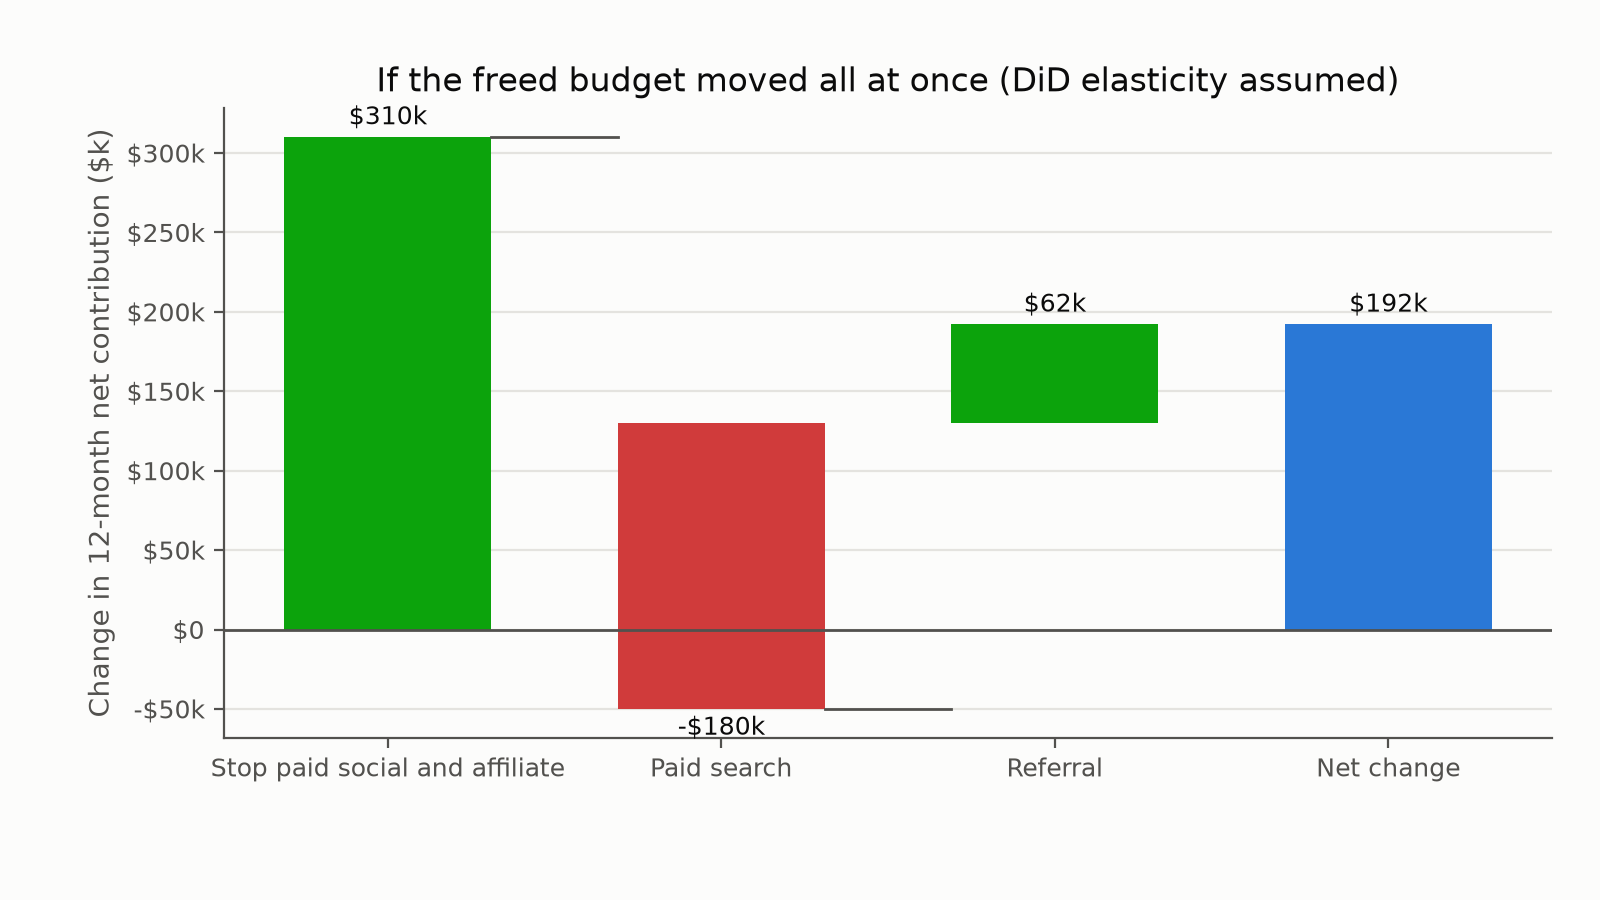
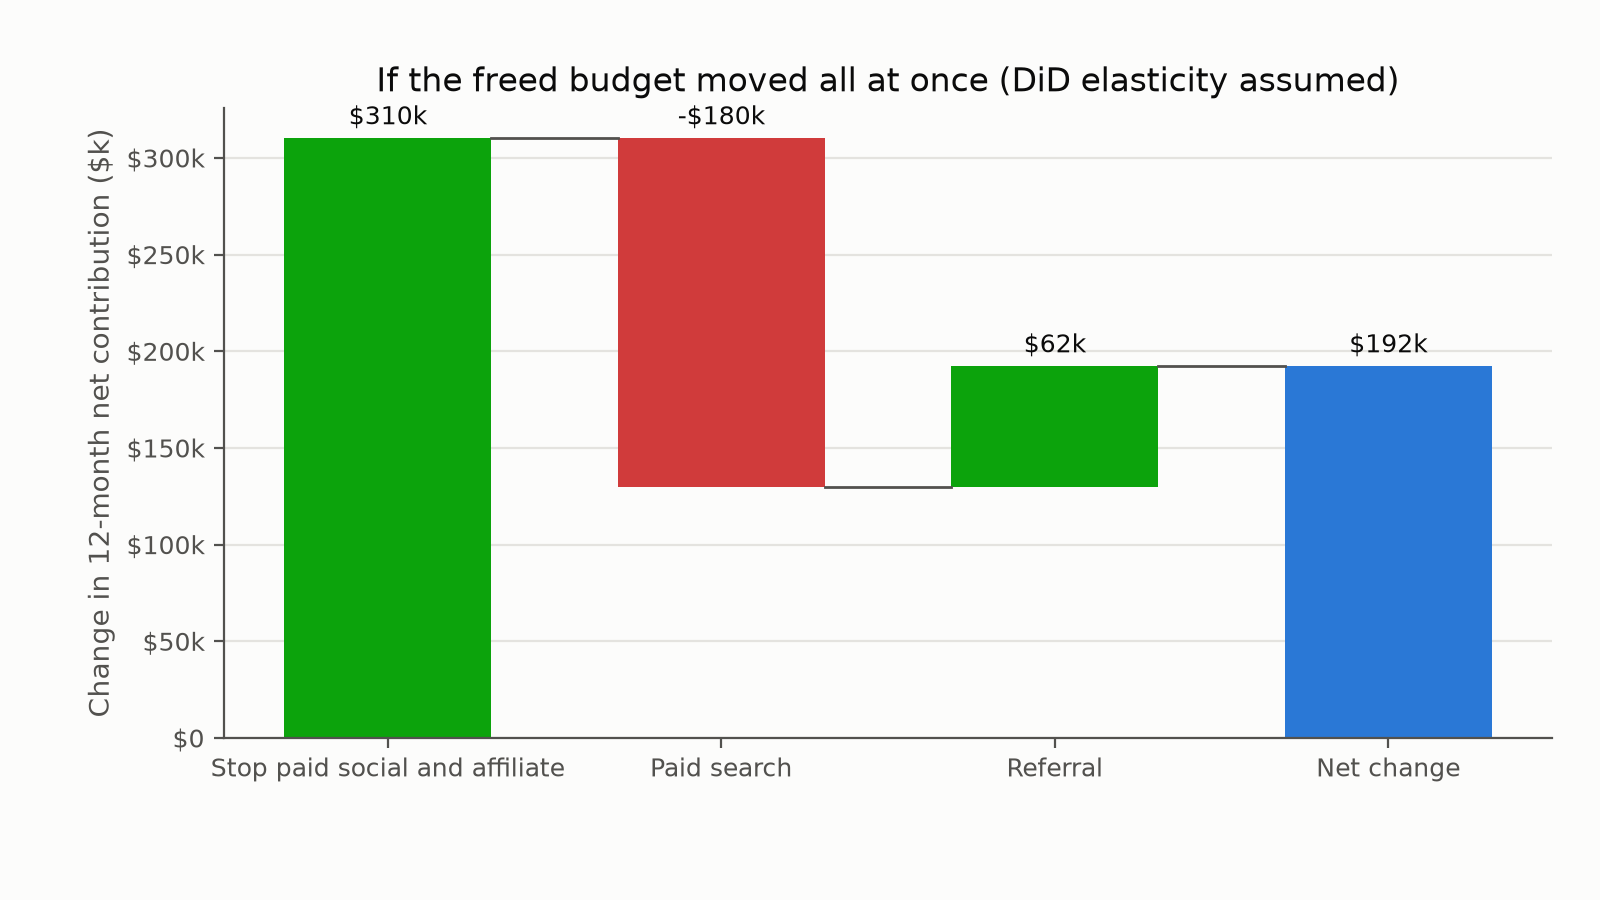
Fix waterfall bar positions

diff --git a/src/acr/charts.py b/src/acr/charts.py
@@ -493,61 +493,94 @@ def chart_retention_curves(tables: Path, figures: Path) -> Path:
     return path
 
 
+def waterfall_segments(
+    steps: list[tuple[str, float]],
+) -> list[tuple[str, float, float]]:
+    """Turn ordered (label, change) steps into (label, start, end) bars.
+
+    The first bar starts at 0. Each later step bar continues the running
+    total. The last bar is the Net change total from 0 to that final total.
+    """
+    if not steps:
+        return []
+    segments: list[tuple[str, float, float]] = []
+    running = 0.0
+    last_index = len(steps) - 1
+    for idx, (label, change) in enumerate(steps):
+        if idx == last_index:
+            segments.append((label, 0.0, running))
+        else:
+            start = running
+            end = running + float(change)
+            segments.append((label, start, end))
+            running = end
+    return segments
+
+
 def chart_budget_change(tables: Path, figures: Path) -> Path:
     budget = pd.read_csv(tables / "budget_scenario.csv").set_index("channel")
     decisions = pd.read_csv(tables / "decisions.csv")
     fund = decisions.loc[decisions["call"] == "FUND", "channel"].tolist()
 
-    labels = ["Stop paid social and affiliate"]
-    values = [float(budget.loc["stop_cut_channels", "extra_net_median"])]
+    steps: list[tuple[str, float]] = [
+        (
+            "Stop paid social and affiliate",
+            float(budget.loc["stop_cut_channels", "extra_net_median"]),
+        )
+    ]
     for channel in fund:
-        labels.append(channel_name(channel))
-        values.append(float(budget.loc[channel, "extra_net_median"]))
-    labels.append("Net change")
-    values.append(float(budget.loc["cut_and_redirect", "extra_net_median"]))
+        steps.append(
+            (channel_name(channel), float(budget.loc[channel, "extra_net_median"]))
+        )
+    steps.append(
+        ("Net change", float(budget.loc["cut_and_redirect", "extra_net_median"]))
+    )
+    segments = waterfall_segments(steps)
 
     fig, ax = plt.subplots(figsize=(8, 4.5), dpi=200)
     apply_style(ax)
-    x = np.arange(len(values))
-    # Waterfall connector bases.
-    running = 0.0
-    bottoms = []
-    for idx, value in enumerate(values[:-1]):
-        bottoms.append(running if value >= 0 else running + value)
-        running += value
-    bottoms.append(0.0)
+    width = 0.62
+    half = width / 2.0
+    x = np.arange(len(segments))
 
-    colors = []
-    for idx, value in enumerate(values):
-        if idx == len(values) - 1:
-            colors.append(BLUE)
-        elif value >= 0:
-            colors.append(POSITIVE)
+    for idx, (label, start, end) in enumerate(segments):
+        bottom = min(start, end)
+        height = abs(end - start)
+        if label == "Net change":
+            color = BLUE
+        elif end > start:
+            color = POSITIVE
         else:
-            colors.append(NEGATIVE)
-
-    ax.bar(x, values, bottom=bottoms, color=colors, width=0.62, linewidth=0)
-    for idx in range(len(values) - 2):
-        end_y = bottoms[idx] + values[idx]
-        ax.plot([idx + 0.31, idx + 0.69], [end_y, end_y], color=MUTED, linewidth=1.0)
-
-    for idx, value in enumerate(values):
-        y = bottoms[idx] + value
-        va = "bottom" if value >= 0 else "top"
-        offset = 4000 if value >= 0 else -4000
+            color = NEGATIVE
+        ax.bar(
+            x[idx],
+            height,
+            bottom=bottom,
+            color=color,
+            width=width,
+            linewidth=0,
+        )
+        if idx < len(segments) - 1:
+            ax.plot(
+                [x[idx] + half, x[idx + 1] - half],
+                [end, end],
+                color=MUTED,
+                linewidth=1.0,
+            )
+        change = end - start
         ax.text(
-            idx,
-            y + offset,
-            money_k(value),
+            x[idx],
+            max(start, end) + 4000.0,
+            money_k(change),
             ha="center",
-            va=va,
+            va="bottom",
             color=INK,
             fontsize=9,
         )
 
     ax.axhline(0, color=MUTED, linewidth=1.0)
     ax.set_xticks(x)
-    ax.set_xticklabels(labels, color=MUTED, fontsize=9)
+    ax.set_xticklabels([label for label, _start, _end in segments], color=MUTED, fontsize=9)
     ax.yaxis.set_major_formatter(
         plt.FuncFormatter(lambda value, _pos: "$0" if abs(value) < 0.5 else money_k(value))
     )

diff --git a/tests/test_charts.py b/tests/test_charts.py
@@ -4,12 +4,14 @@ from __future__ import annotations
 
 from pathlib import Path
 
+import pandas as pd
 from PIL import Image
 
-from acr.charts import make_all_charts
+from acr.charts import channel_name, make_all_charts, waterfall_segments
 
 ROOT = Path(__file__).resolve().parents[1]
 FIGURES = ROOT / "outputs" / "figures"
+TABLES = ROOT / "outputs" / "tables"
 
 EXPECTED = {
     "forecast_by_channel.png": (2400, 1400),
@@ -31,3 +33,34 @@ def test_chart_cli_writes_all_pngs_at_the_expected_size():
         assert path.stat().st_size > 20_000, (name, path.stat().st_size)
         with Image.open(path) as image:
             assert image.size == size, (name, image.size)
+
+
+def test_waterfall_segments_follow_the_budget_scenario():
+    budget = pd.read_csv(TABLES / "budget_scenario.csv").set_index("channel")
+    decisions = pd.read_csv(TABLES / "decisions.csv")
+    fund = decisions.loc[decisions["call"] == "FUND", "channel"].tolist()
+
+    stop = float(budget.loc["stop_cut_channels", "extra_net_median"])
+    paid_search = float(budget.loc["paid_search", "extra_net_median"])
+    referral = float(budget.loc["referral", "extra_net_median"])
+    total = float(budget.loc["cut_and_redirect", "extra_net_median"])
+
+    steps = [
+        ("Stop paid social and affiliate", stop),
+        (channel_name("paid_search"), paid_search),
+        (channel_name("referral"), referral),
+        ("Net change", total),
+    ]
+    segments = waterfall_segments(steps)
+    by_label = {label: (start, end) for label, start, end in segments}
+
+    assert by_label["Stop paid social and affiliate"] == (0.0, stop)
+    paid_start, paid_end = by_label[channel_name("paid_search")]
+    assert paid_start == stop
+    assert paid_end == stop + paid_search
+    ref_start, ref_end = by_label[channel_name("referral")]
+    assert ref_start == paid_end
+    assert ref_end == paid_end + referral
+    assert abs(ref_end - total) <= 1e-6
+    assert by_label["Net change"] == (0.0, total)
+    assert fund == ["paid_search", "referral"]
